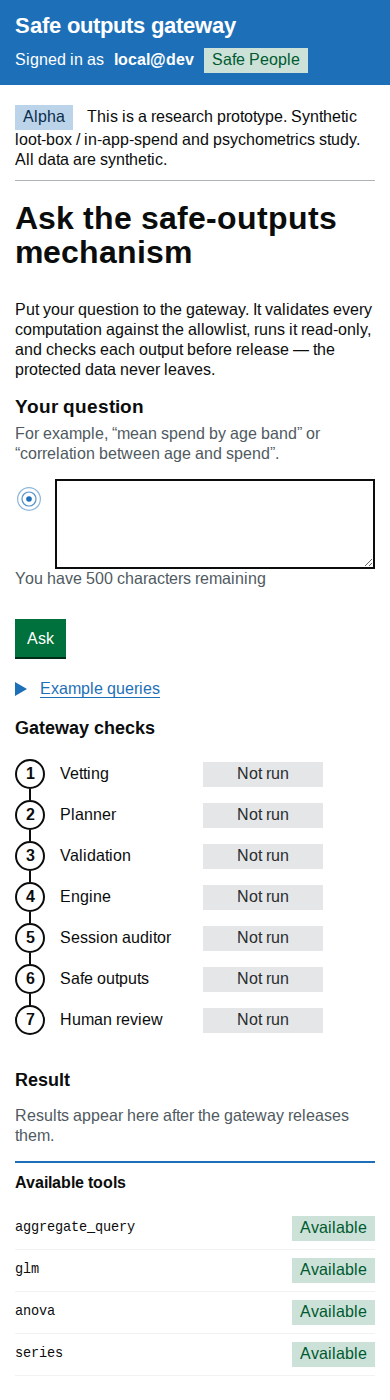
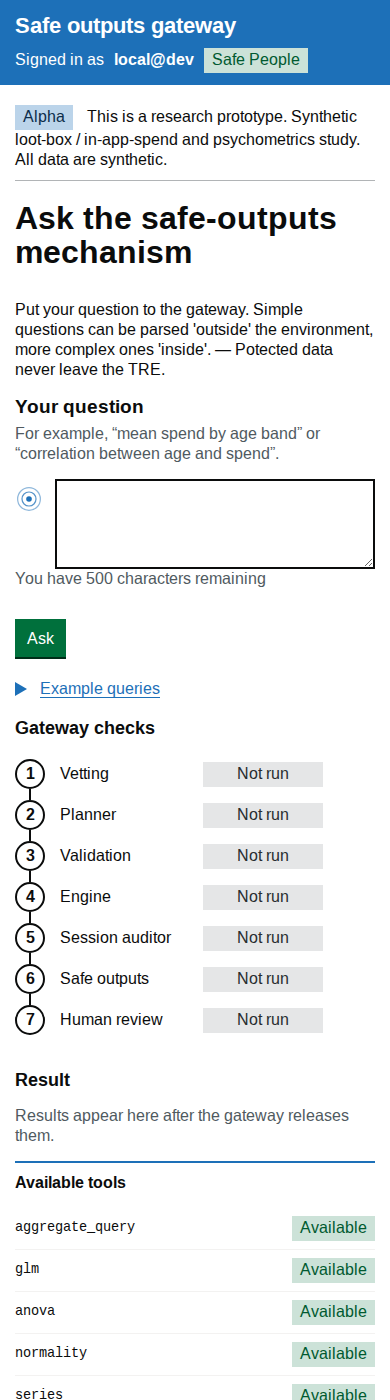
Add first-time inside analysis walkthrough

Changed region(s): [[0.0308, 0.215, 0.9538, 0.2764], [0.7385, 0.9829, 0.9846, 1.0], [0.0308, 0.9521, 0.2154, 1.0]]

diff --git a/safetre_web/templates/index.html b/safetre_web/templates/index.html
@@ -37,9 +37,7 @@
         </div>
         {% endif %}
         <h1 class="heading-xl">Ask the safe-outputs mechanism</h1>
-        <p class="lead">Put your question to the gateway. It validates every
-          computation against the allowlist, runs it read-only, and checks
-          each output before release &mdash; the protected data never leaves.</p>
+        <p class="lead">Put your question to the gateway. Simple questions can be parsed 'outside' the environment, more complex ones 'inside'. &mdash; Potected data never leave the TRE.</p>
 
         <form id="qform" autocomplete="off">
           <div class="form-group">
@@ -120,7 +118,11 @@
 
         <h2 class="heading-m">Result</h2>
         <div id="result" class="result" role="status" aria-live="polite">
+          {% if capture_dossier_html %}
+          {{ capture_dossier_html | safe }}
+          {% else %}
           <p class="hint">Results appear here after the gateway releases them.</p>
+          {% endif %}
         </div>
       </div>
 

diff --git a/safetre_web/static/app.js b/safetre_web/static/app.js
@@ -306,6 +306,13 @@ document.addEventListener("DOMContentLoaded", () => {
   // like SAFETRE_ALLOW_TEST_CLIENT it is a sentinel: never enable it on a real
   // deployment.
   const hash = new URLSearchParams(location.hash.slice(1));
+  if (hash.get("mode") === "inside") {
+    const inside = document.querySelector("input[name='mode'][value='inside']");
+    if (inside) {
+      inside.checked = true;
+      gatewayMode(true);
+    }
+  }
   const preset = hash.get("q");
   if (preset) {
     input.value = preset.slice(0, input.maxLength);

diff --git a/safetre_web/app.py b/safetre_web/app.py
@@ -32,9 +32,11 @@ from safetre import dataset as dataset_mod
 from safetre import synth
 from safetre.audit import AuditLog, claim_exclusive
 from safetre.config import load_policy_config
-from safetre.disclosure import DisclosurePolicy, build_vetter
+from safetre.disclosure import DisclosurePolicy, SessionAuditor, build_vetter
 from safetre.manifest import manifest_for_response, public_schema
-from safetre.inside_analyst import AnalystLoop, LLMAnalystPolicy, LLMNarrator
+from safetre.inside_analyst import (
+    AnalystLoop, Claim, Conclude, LLMAnalystPolicy, LLMNarrator, ScriptedPolicy,
+)
 from safetre.llm import LLMClient
 from safetre.planner import LLMPlanner, MockPlanner
 from safetre.query import CATALOGUE
@@ -189,6 +191,46 @@ CHIMP_ENABLED = ANALYST_MODE == "chimp"
 # A modest cap: each step is an LLM turn, and a browser request waits for the
 # whole loop. The session budget still bounds disclosure; this bounds latency.
 CHIMP_MAX_STEPS = int(os.environ.get("SAFETRE_CHIMP_MAX_STEPS", "6"))
+
+
+def _analyst_policy(client):
+    """Use a fixed, vetted two-step plan only for offline documentation capture."""
+    capture_demo = os.environ.get("SAFETRE_CAPTURE_INSIDE_DEMO", "").strip().lower()
+    if capture_demo not in ("1", "true", "yes", "on"):
+        return LLMAnalystPolicy(client, _cfg)
+    if (os.environ.get("SAFETRE_LLM") or "").strip().lower() != "mock":
+        raise RuntimeError("SAFETRE_CAPTURE_INSIDE_DEMO requires SAFETRE_LLM=mock")
+    examples = _definition.planner_examples[:2]
+    if len(examples) < 2:
+        raise RuntimeError("inside demo capture needs two planner examples")
+    conclusion = Conclude(
+        [Claim("The two released analyses provide evidence for the research question.",
+               "supported", [1, 2])],
+        "supported",
+        "This synthetic example is a walkthrough, not a substantive study finding.",
+    )
+    return ScriptedPolicy([(example.request, example.spec) for example in examples], conclusion)
+
+
+def _capture_inside_demo() -> bool:
+    return os.environ.get("SAFETRE_CAPTURE_INSIDE_DEMO", "").strip().lower() \
+        in ("1", "true", "yes", "on")
+
+
+def _capture_dossier_html(request: Request) -> str | None:
+    """Render a completed dossier for reproducible offline screenshots only."""
+    if not (_capture_inside_demo() and request.query_params.get("inside-demo") == "1"):
+        return None
+    if (os.environ.get("SAFETRE_LLM") or "").strip().lower() != "mock":
+        raise RuntimeError("inside demo capture requires SAFETRE_LLM=mock")
+    question = "Does late-night phone use relate to gambling behaviour?"
+    loop = AnalystLoop(service, _analyst_policy(None), auditor=SessionAuditor(),
+                       max_steps=CHIMP_MAX_STEPS)
+    dossier = loop.run(question)
+    return templates.get_template("_dossier.html").render(
+        d=dossier, tables=_dossier_tables(dossier),
+        budget_left=max(0, dossier.budget - dossier.budget_spent),
+    )
 
 
 def make_planner():
@@ -398,6 +440,7 @@ def index(request: Request):
         "dataset_description": _definition.description,
         "version": _version,
         "chimp_enabled": CHIMP_ENABLED,
+        "capture_dossier_html": _capture_dossier_html(request),
     })
 
 
@@ -464,16 +507,17 @@ def chimp(request: Request, body: QueryRequest):
     sess = sessions.get(user)
     client = LLMClient()
     with sess.lock:
-        loop = AnalystLoop(service, LLMAnalystPolicy(client, _cfg),
+        loop = AnalystLoop(service, _analyst_policy(client),
                            auditor=sess.auditor, audit_log=audit_log, user=user,
                            max_steps=CHIMP_MAX_STEPS)
         dossier = loop.run(body.q)
-        try:
-            LLMNarrator(client).render(dossier)
-        except Exception:                         # noqa: BLE001
-            # the narrator is a convenience over the dossier; if the model call
-            # fails the vetted dossier still stands, so degrade to no prose
-            _log.warning("narrator failed; returning the dossier without prose")
+        if not _capture_inside_demo():
+            try:
+                LLMNarrator(client).render(dossier)
+            except Exception:                     # noqa: BLE001
+                # the narrator is a convenience over the dossier; if the model call
+                # fails the vetted dossier still stands, so degrade to no prose
+                _log.warning("narrator failed; returning the dossier without prose")
         sess.history.append((body.q, dossier.verdict))
 
     spent = sess.auditor.spent
@@ -504,7 +548,7 @@ def chimp_stream(request: Request, body: QueryRequest):
     def events():
         try:
             with sess.lock:
-                loop = AnalystLoop(service, LLMAnalystPolicy(client, _cfg),
+                loop = AnalystLoop(service, _analyst_policy(client),
                                    auditor=sess.auditor, audit_log=audit_log, user=user,
                                    max_steps=CHIMP_MAX_STEPS)
                 dossier = None
@@ -518,10 +562,11 @@ def chimp_stream(request: Request, body: QueryRequest):
                         yield f"event: step\ndata: {data}\n\n"
                     else:
                         dossier = payload
-                try:
-                    LLMNarrator(client).render(dossier)
-                except Exception:                     # noqa: BLE001
-                    _log.warning("narrator failed; returning the dossier without prose")
+                if not _capture_inside_demo():
+                    try:
+                        LLMNarrator(client).render(dossier)
+                    except Exception:                 # noqa: BLE001
+                        _log.warning("narrator failed; returning the dossier without prose")
                 sess.history.append((body.q, dossier.verdict))
                 spent = sess.auditor.spent
                 html = templates.get_template("_dossier.html").render(

diff --git a/scripts/make_demo_screenshots.py b/scripts/make_demo_screenshots.py
@@ -49,13 +49,20 @@ SHOTS = {
     "demo-mobile": ("/", MOBILE),
 }
 
-# One extra capture with the inside analyst enabled, so the subtle top-right
-# parse-outside/parse-inside toggle is in frame. The home page is enough — the
-# toggle is what this shot documents; an actual dossier needs a live model and
-# so is deliberately not part of this deterministic, mock-planner set.
+# The inside walkthrough uses a fixed two-step plan over the same gateway. The
+# capture-only policy is allowed only with SAFETRE_LLM=mock, so the docs remain
+# reproducible and no hosted model is involved.
 PORT_INSIDE = 8802
 SHOTS_INSIDE = {
     "demo-inside-toggle": ("/", DESKTOP),
+    "demo-inside-dossier": (
+        "/?inside-demo=1#mode=inside",
+        "1280,2200",
+    ),
+    "demo-inside-dossier-mobile": (
+        "/?inside-demo=1#mode=inside",
+        "390,2200",
+    ),
 }
 
 
@@ -90,6 +97,15 @@ def capture(chrome: str, base: str, shots: dict) -> None:
         print(f"captured {name} -> {os.path.relpath(out, ROOT)}")
 
 
+def stop_server(server: subprocess.Popen) -> None:
+    server.terminate()
+    try:
+        server.wait(timeout=10)
+    except subprocess.TimeoutExpired:
+        server.kill()
+        server.wait(timeout=10)
+
+
 def main() -> None:
     if not os.path.exists(os.path.join(ROOT, "data", "donors.csv")):
         sys.exit("data/ is missing — run: uv run python scripts/make_data.py")
@@ -117,11 +133,12 @@ def main() -> None:
             wait_healthy(BASE)
             capture(chrome, BASE, SHOTS)
         finally:
-            server.terminate()
-            server.wait(timeout=10)
+            stop_server(server)
 
-        # Phase 2: one shot with the inside analyst enabled, so the toggle shows.
-        env_inside = dict(env, SAFETRE_ANALYST="chimp",
+        # Phase 2: the complete deterministic inside-analysis walkthrough.
+        env_inside = dict(env, SAFETRE_ANALYST="chimp", SAFETRE_CAPTURE_INSIDE_DEMO="1",
+                  SAFETRE_DATASET="studies/nightplay/nightplay.yaml",
+                  SAFETRE_DATA_DIR="data/nightplay_big",
                           SAFETRE_AUDIT_DB=os.path.join(tmp, "audit-inside.db"))
         base_inside = f"http://127.0.0.1:{PORT_INSIDE}"
         server_inside = subprocess.Popen(
@@ -134,8 +151,7 @@ def main() -> None:
             wait_healthy(base_inside)
             capture(chrome, base_inside, SHOTS_INSIDE)
         finally:
-            server_inside.terminate()
-            server_inside.wait(timeout=10)
+            stop_server(server_inside)
 
 
 if __name__ == "__main__":

diff --git a/tests/test_web.py b/tests/test_web.py
@@ -4,6 +4,8 @@ import json
 import os
 import tempfile
 
+import pytest
+
 os.environ.setdefault("SAFETRE_AUDIT_DB", os.path.join(tempfile.mkdtemp(), "audit.db"))
 os.environ.setdefault("SAFETRE_AUDIT_KEY", "web-test-key")
 os.environ.setdefault("SAFETRE_RESTRICTED_CHANNEL", "1")
@@ -150,6 +152,28 @@ def test_index_accessibility_contract():
     assert "title=" not in r
     # step state is text in a tag, never colour alone
     assert r.count("step-status") >= 7
+
+
+def test_capture_only_inside_policy_requires_mock_planner(monkeypatch):
+    from safetre.inside_analyst import ScriptedPolicy
+    from safetre_web.app import _analyst_policy
+
+    monkeypatch.setenv("SAFETRE_CAPTURE_INSIDE_DEMO", "1")
+    monkeypatch.setenv("SAFETRE_LLM", "mock")
+    assert isinstance(_analyst_policy(object()), ScriptedPolicy)
+
+    monkeypatch.setenv("SAFETRE_LLM", "real")
+    with pytest.raises(RuntimeError, match="requires SAFETRE_LLM=mock"):
+        _analyst_policy(object())
+
+
+def test_capture_dossier_is_available_only_in_mock_capture_mode(monkeypatch):
+    monkeypatch.setenv("SAFETRE_CAPTURE_INSIDE_DEMO", "1")
+    monkeypatch.setenv("SAFETRE_LLM", "mock")
+    r = client.get("/?inside-demo=1")
+    assert r.status_code == 200
+    assert 'class="dossier"' in r.text
+    assert "What the safe analysis engine asked the gateway (2 steps)" in r.text
 
 
 # --- #50: a prefill link fills the box, it does not run it ----------------------

diff --git a/docs/first-inside-analysis.md b/docs/first-inside-analysis.md
@@ -1,0 +1,81 @@
+# Your first inside analysis
+
+This walkthrough shows how to ask one research question that needs more than
+one table. It uses a synthetic study of late-night phone use, gambling and
+wellbeing. The example explains the workflow; it is not a finding about real
+people.
+
+## The question
+
+We will ask:
+
+> Does late-night phone use relate to gambling behaviour?
+
+One average cannot answer this question. We want to know whether monthly stake
+differs between people with different levels of late-night phone use, and
+whether the number of late-night sessions relates to stake.
+
+## Choose inside analysis
+
+The small switch above the question box has two options. Choose **inside** when
+one question needs several linked analyses.
+
+![The inside option above the question box](figures/demo-inside-toggle.png)
+
+You write the question in ordinary language. You do not need to choose a test
+or make a table first.
+
+## Ask the whole question
+
+Type the question and select **Ask**:
+
+```text
+Does late-night phone use relate to gambling behaviour?
+```
+
+The page shows each analysis step as it finishes. A step can be released,
+partly withheld, or refused. One refused step does not end the analysis: the
+system uses the other released evidence to give the most complete answer it can
+support.
+
+## Read the answer first
+
+The top of the dossier gives a short verdict and a list of claims. Each claim
+points to the numbered analysis steps it relies on. Read this as a brief results
+section, then look at the tables behind it.
+
+![The completed inside-analysis dossier, with an answer and evidence](figures/demo-inside-dossier.png)
+
+In this example the analysis makes two checks:
+
+1. It compares monthly stake across the four late-night-use groups.
+2. It tests the association between late-night sessions and stake.
+
+The tables appear only after checks on group size and disclosure risk. They are
+the evidence for the displayed conclusion.
+
+## Look at the evidence, not the machinery
+
+Each numbered section names the question the analysis asked and labels its
+status. The useful record is the released tables and the question each table
+answers, not the system's private working notes.
+
+This gives you a simple way to discuss the result with a collaborator: start
+with the claim, then ask whether the table beneath it supports the
+interpretation.
+
+## It also works on a small screen
+
+The same dossier remains readable on a phone. Tables scroll horizontally when
+needed; the claim and step labels stay visible.
+
+![The inside-analysis dossier on a phone](figures/demo-inside-dossier-mobile.png)
+
+## What to take away
+
+Use **outside** analysis for a question with one clear calculation. Use
+**inside** analysis when you want the system to gather several pieces of
+released evidence before giving an answer. The system never sends its working
+notes or individual records to your browser.
+
+For the technical design, read [The inside analyst](inside-analyst.md).

diff --git a/docs/screenshot-tour.md b/docs/screenshot-tour.md
@@ -75,9 +75,10 @@ The captures above use **parse outside**, the default single-query path, with
 the inside analyst off. When an operator sets `SAFETRE_ANALYST=chimp`, the ask
 box gains a **parse outside / parse inside** switch. Parse inside sends the
 whole question to the safe analysis engine, which runs several analyses behind
-the same gateway and returns a dossier of vetted releases. This capture shows
-only the switch; an inside run needs a model endpoint, so it is not part of the
-reproducible `mock` set. See [the inside analyst](inside-analyst.md).
+the same gateway and returns a dossier of vetted releases. The reproducible
+capture set also includes a fixed two-step dossier; see [Your first inside
+analysis](first-inside-analysis.md). It uses an explicit mock-only capture
+policy, not a hosted model. See [the inside analyst](inside-analyst.md).
 
 ## Reproducing the captures
 
@@ -92,8 +93,8 @@ The script starts a throwaway server on `127.0.0.1:8801` with `SAFETRE_LLM=mock`
 (the deterministic tests/CI planner, chosen so captures need no model endpoint)
 and a fresh temporary audit log, screenshots each state with headless Chrome,
 and writes `docs/figures/demo-{home,released,redacted,denied}.png` plus
-`demo-mobile.png` (the home page at 390px width) and `demo-inside-toggle.png`
-(the home page with `SAFETRE_ANALYST=chimp`). A running demo server on
+`demo-mobile.png` (the home page at 390px width), `demo-inside-toggle.png`, and
+the desktop and mobile `demo-inside-dossier` captures. A running demo server on
 port 8800 is left untouched.
 
 To capture by hand instead, open these URLs — the fragment pre-fills and

diff --git a/docs/public-demo.md b/docs/public-demo.md
@@ -18,13 +18,15 @@ claim without asking anyone for access.
 
 1. **[Demo in 5 minutes](demo-5-minutes.md)** — clone, generate synthetic
    data, run the web app locally, and smoke-test the three public endpoints.
-2. **[Screenshot tour](screenshot-tour.md)** — the five states that carry the
+2. **[Your first inside analysis](first-inside-analysis.md)** — a plain-language,
+   screenshot-led walkthrough of one question answered with two linked analyses.
+3. **[Screenshot tour](screenshot-tour.md)** — the five states that carry the
    safety argument (home, released, redacted, denied, audit verify), each with
    what to look for and the exact query that produces it.
-3. **[Web interface walkthrough](web-walkthrough.md)** — a two-minute first
+4. **[Web interface walkthrough](web-walkthrough.md)** — a two-minute first
    look for a new user: three simple queries, then parse outside versus parse
    inside.
-4. **[Evidence checklist](evidence-checklist.md)** — what to record so a demo
+5. **[Evidence checklist](evidence-checklist.md)** — what to record so a demo
    run becomes citable evidence: commit, lock hash, check results, red-team
    summary, audit verification.
 
